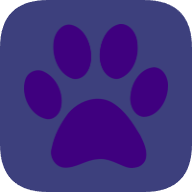
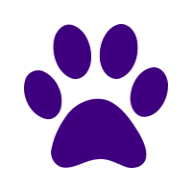
nueva version

diff --git a/src/utils/registerServiceWorker.js b/src/utils/registerServiceWorker.js
@@ -3,14 +3,32 @@ export const registerServiceWorker = () => {
   if ('serviceWorker' in navigator) {
     window.addEventListener('load', () => {
       navigator.serviceWorker
-        .register('/service-worker.js')
+        .register('/service-worker.js', { updateViaCache: 'none' })
         .then((registration) => {
           console.log('Service Worker registrado exitosamente:', registration.scope);
           
-          // Verificar actualizaciones cada hora
+          // Verificar actualizaciones inmediatamente y luego periódicamente
+          registration.update();
+          
+          // Verificar actualizaciones cada 5 minutos
           setInterval(() => {
             registration.update();
-          }, 60 * 60 * 1000);
+          }, 5 * 60 * 1000);
+          
+          // Escuchar actualizaciones del service worker
+          registration.addEventListener('updatefound', () => {
+            const newWorker = registration.installing;
+            if (newWorker) {
+              newWorker.addEventListener('statechange', () => {
+                if (newWorker.state === 'installed' && navigator.serviceWorker.controller) {
+                  // Hay una nueva versión disponible
+                  console.log('Nueva versión del Service Worker disponible');
+                  // Recargar la página para usar la nueva versión
+                  window.location.reload();
+                }
+              });
+            }
+          });
         })
         .catch((error) => {
           console.error('Error al registrar Service Worker:', error);

diff --git a/public/service-worker.js b/public/service-worker.js
@@ -1,7 +1,10 @@
-const CACHE_NAME = 'vettix-v1';
+const CACHE_NAME = 'vettix-v3';
 const urlsToCache = [
   '/',
   '/index.html',
+  '/manifest.json',
+  '/img/icon-pwa-192.png',
+  '/img/icon-pwa-512.png',
   '/img/icon.png',
   '/img/icon2.png',
   '/img/logo.png',
@@ -35,13 +38,23 @@ self.addEventListener('activate', (event) => {
           }
         })
       );
+    }).then(() => {
+      // Forzar que todos los clientes usen el nuevo service worker
+      return self.clients.claim();
     })
   );
-  return self.clients.claim();
 });
 
 // Interceptar peticiones
 self.addEventListener('fetch', (event) => {
+  const url = new URL(event.request.url);
+  
+  // No cachear el manifest.json, siempre obtener la versión más reciente
+  if (url.pathname === '/manifest.json') {
+    event.respondWith(fetch(event.request));
+    return;
+  }
+  
   event.respondWith(
     caches.match(event.request)
       .then((response) => {

diff --git a/public/img/create-pwa-icons.html b/public/img/create-pwa-icons.html
@@ -107,8 +107,8 @@
             // Limpiar canvas
             ctx.clearRect(0, 0, size, size);
             
-            // Fondo con bordes redondeados (color de Vettix)
-            ctx.fillStyle = '#3d407d';
+            // Fondo con bordes redondeados (blanco)
+            ctx.fillStyle = '#ffffff';
             roundRect(ctx, 0, 0, size, size, size * 0.25);
             ctx.fill();
             
